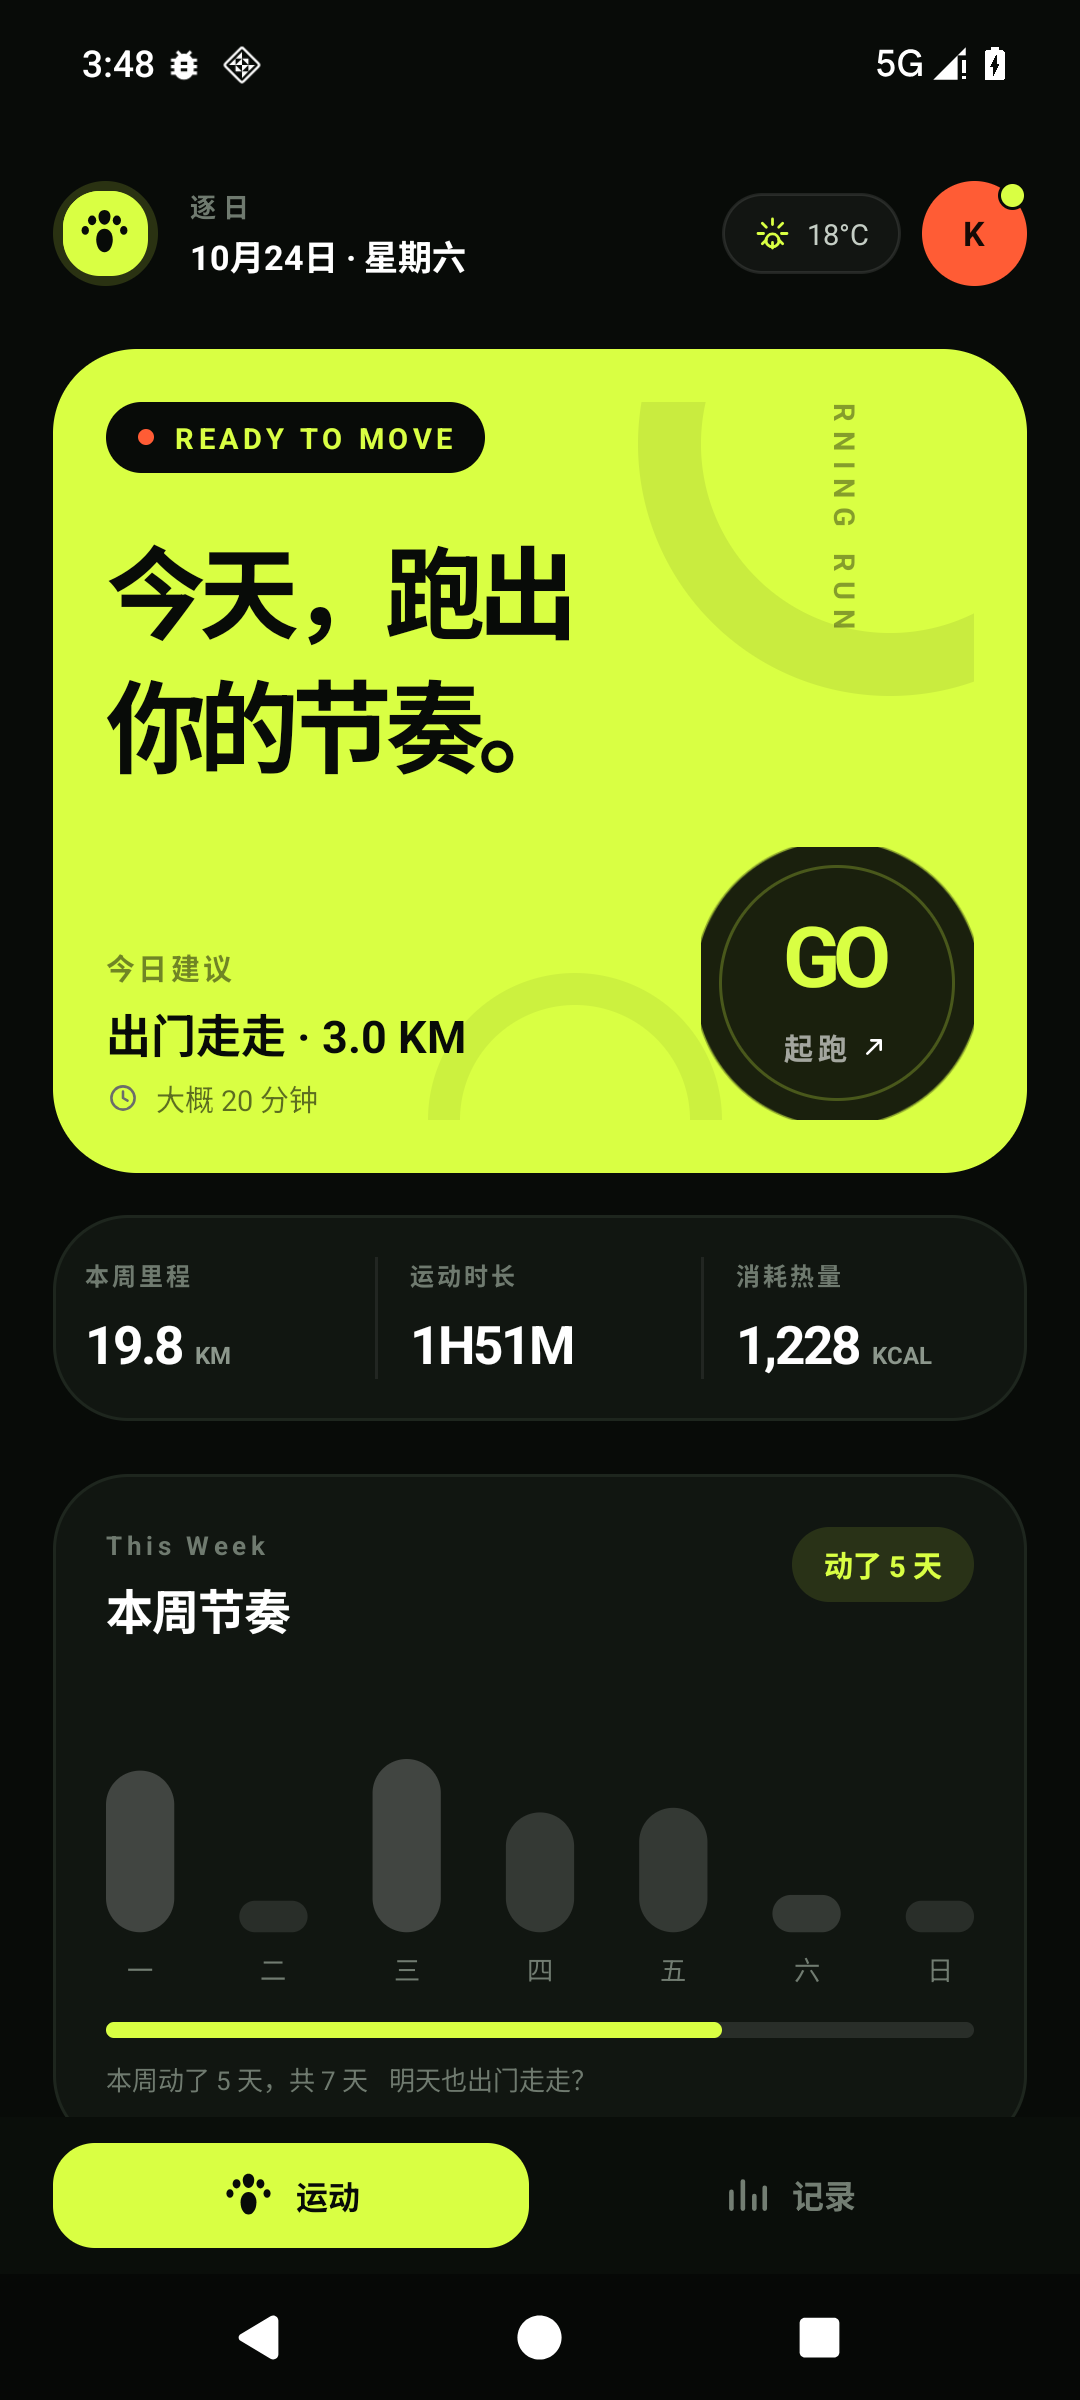
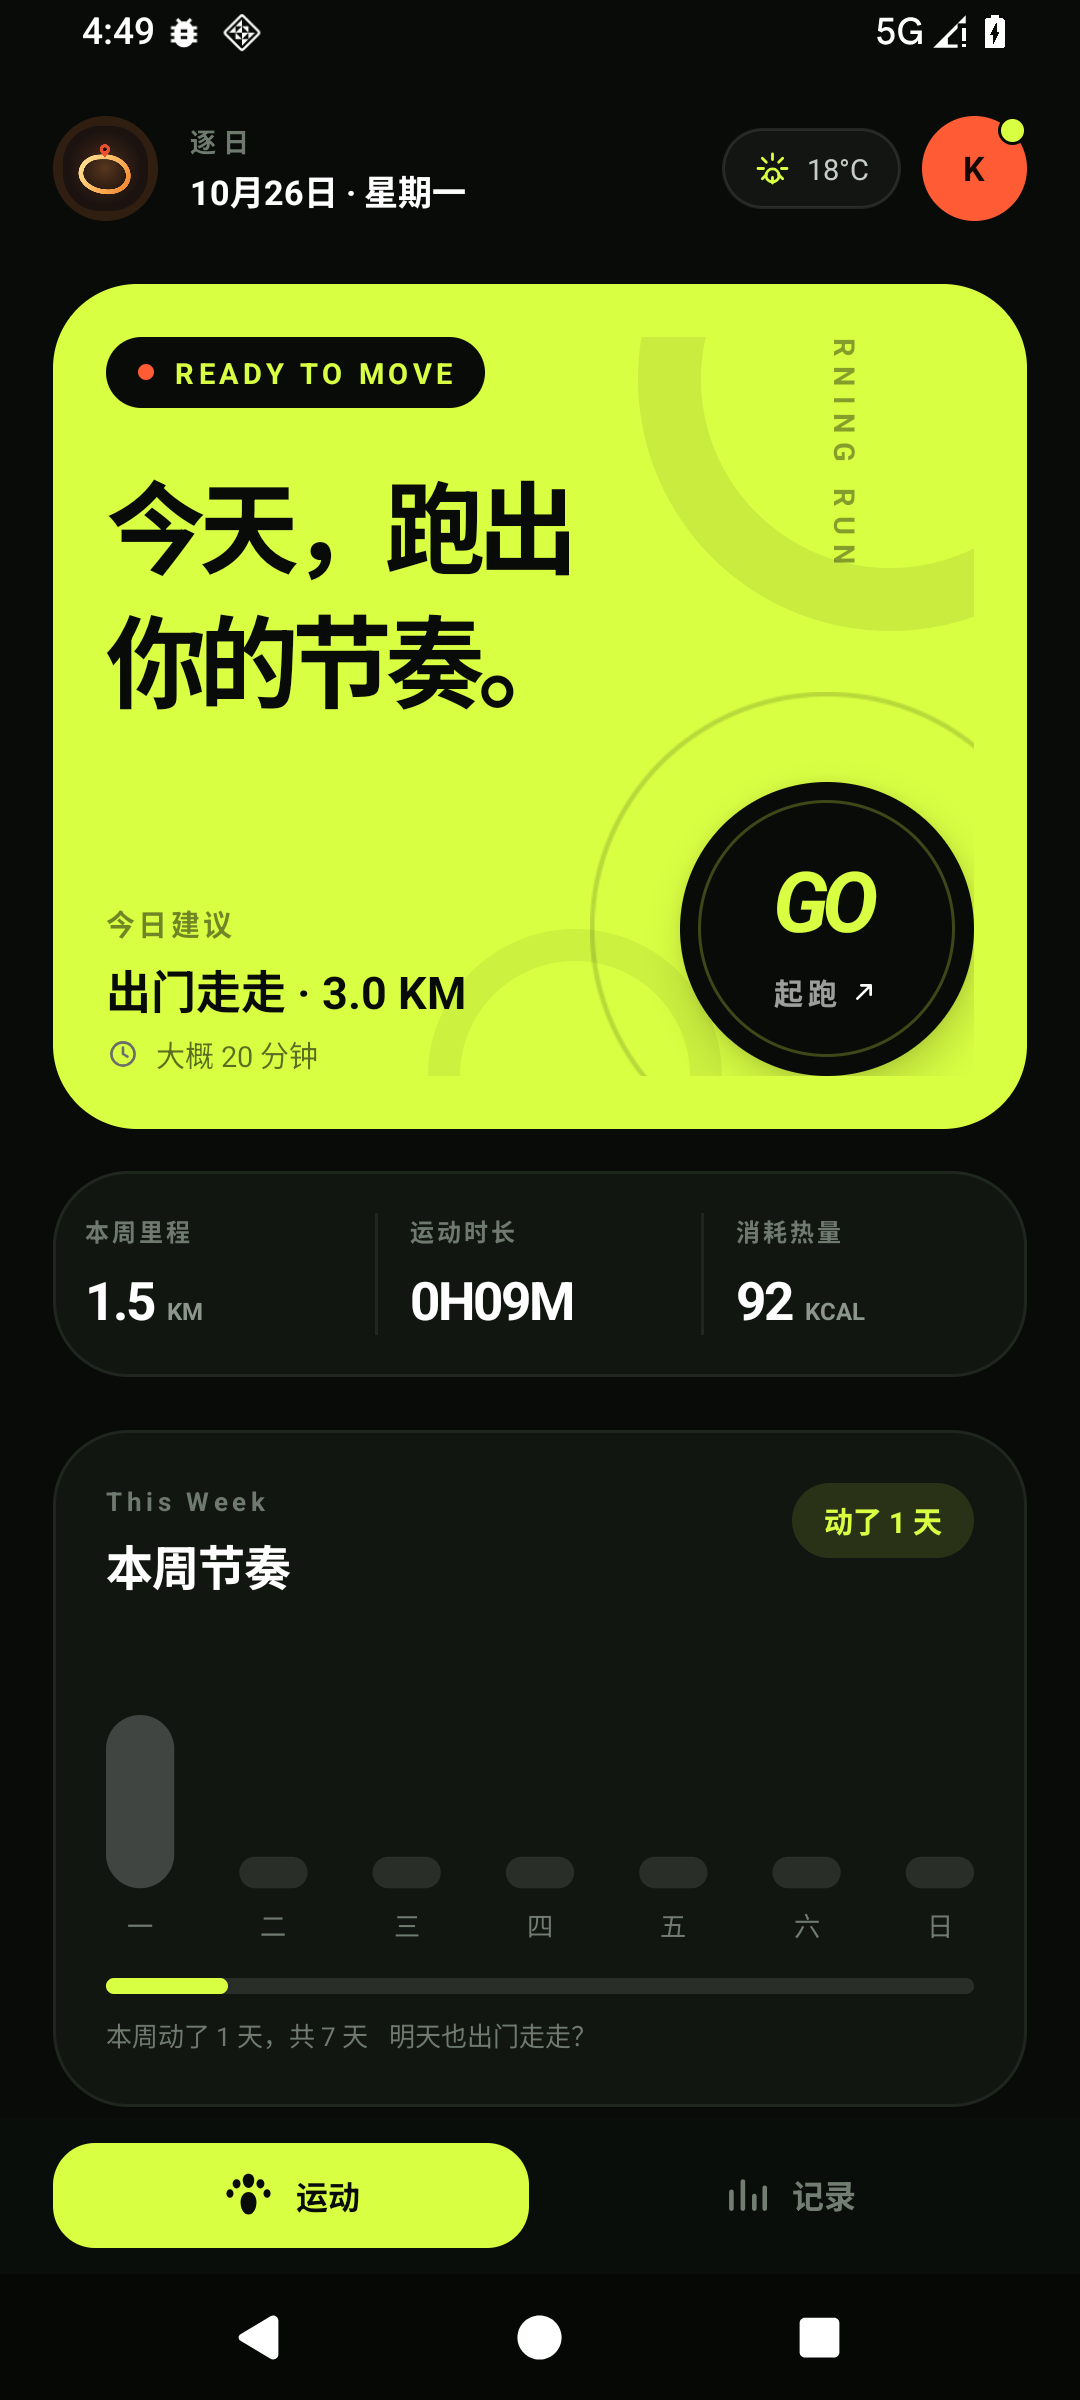
docs: 补充 7 项修复的验收记录与截图

diff --git a/docs/验收报告.md b/docs/验收报告.md
@@ -728,6 +728,69 @@ docs: 补充产品理念文档与 M8 验收结果
 
 ---
 
+## 修复轮 · 首页与跑步体验 7 项修复（分支 `fix/home-live-ux`）
+
+**执行日期**：2026-10-26　**状态**：✅ local 变体模拟器全流程通过，⏳ amap 变体待真机，⏳ 待用户验收
+
+> 用户提出 7 项问题；其中**问题 2（主题配色换暖色）按用户指示本轮不做**，其余 6 项一功能一提交。
+
+### 验收项核对
+
+| # | 用户提出的问题 | 处理 | 结果与证据 |
+|---|---|---|---|
+| 1 | 首页 GO 图标涟漪是黑边，按原型重建 | `drawable/bg_go_ping.xml` 原是**实心深色圆盘**（`<solid @color/bg_base/>`），这才是「黑边」根因；改为透明底 + 1dp `ink_40` 描边环，按钮本体圆盘拆到新的 `drawable/bg_go_disc.xml`。动画由「来回呼吸」改为**单向扩散淡出**：`ValueAnimator 0→1`、2400ms、INFINITE 且不再 REVERSE、`PathInterpolator(0f,0f,0.2f,1f)`（= Tailwind `animate-ping` 的 cubic-bezier）、`scale=1+p` / `alpha=1-p`。尺寸对齐原型 `activity.html:57-64`：按钮 104dp→112dp、内圈 90dp→98dp（`inset-[7px]`）、GO 文字加斜体、`elevation=10dp` | 涟漪被 hero 卡裁掉与原型 `overflow-hidden` 一致；连拍 7 帧见 `tools/shots/ripple-01…07.png`（不入库），按钮实测 294×294px = 112dp@440dpi |
+| 2 | 主题配色仍未换成黄橙白暖色 | **本轮不做**（用户 2026-10-26 指示）。仓库现状：品牌色已局部演进（`ic_logo_sunward.png`、`bg_logo_sunward`、`sunward_ink #1C1310`、`sunward_halo_16`），界面其余部分仍是荧光绿 `#D9FF43` | 未改动 |
+| 3 | 点起跑后要有 3-2-1 静息倒计时，GO 出现 1 秒后才开始计时 | `activity_live_run.xml` 末尾新增全屏 `@id/countdownOverlay`（`scrim_dark`、clickable 吞触摸、默认 gone）内含 120sp `@id/tvCountdown` + 12sp `@id/tvCountdownHint`（新字符串 `live_countdown_hint`「准备起跑」）；`LiveRunActivity` 用 `lifecycleScope` 走 3→2→1（每个 1s：淡入 160ms + 停留 540ms + 淡出 300ms）→ GO，**GO 满 1000ms 才 `startForegroundService(ACTION_START)`**，同时遮罩 250ms 淡出。恢复路径与调试切换不倒计时 | logcat 实测：`倒计时：3`@16:38:15.820 → `2`@16.852 → `1`@17.869 → `GO`@18.875 → `启动计时：simulated=true`@19.887，即 GO 之后 **+1.012s** 才开始计时；截图 `tools/shots/cd-01-3…cd-04-GO.png` |
+| 4 | 点 GO 后立即向高德请求底图；跑步中缩放到道路级；定位标带方向 | ① 首页点 GO 先 `provideMapLayer(this).prewarm()`（合规状态 + SDK 类加载），实时页 `onCreate` 第一件事就 `attach()`，底图请求不等转场动画。② 倒计时期间用新增的 `LocationTracker.lastKnownLocation()` + `locationFlow()` **预热定位**把镜头挪到脚下（`RunTracker.onPoint` 只接受 RUNNING 状态的点，预热点不会污染记录）。③ `TrackPoint` 新增可空 `bearingDeg`：真实点取 `Location.bearing`（`hasBearing()`），模拟轨迹按环线切线用 `GeoMath.bearingDegrees` 算；缺失时用新增的 `map/HeadingProvider`（`TYPE_ROTATION_VECTOR` + `GeoMath.smoothBearing` EMA，只在实时页可见期间注册）兜底。④ `MapLayer` 接口重构：删 `centerOnWgs84`，新增 `prewarm()` / `updateRunnerPosition(lat,lon,bearingDeg,accuracyM)` / `fitTrack(points)` / `setGesturesEnabled(enabled)` / `setTrack(points, endpoints)`。⑤ `AmapLayer` 改用自定义 `LocationSource` 喂 GCJ-02 点给 my-location 图层 + `MyLocationStyle(LOCATION_TYPE_LOCATION_ROTATE)`，图标是代码绘制的品牌色定位标（新增 `map/AmapMarkers.kt`，起终点也换成圆点，不用 SDK 水滴图钉）；首次定位 `newLatLngZoom(…, 17.5f)` 后由 my-location 跟随，`setTrack` 不再每帧移动镜头、已存在的 polyline 走 `setPoints` 复用 | 65 个单测全绿（含新增方位角用例）；`assembleAmapDebug` 通过。**高德 3D SDK 10.0.600 的 `LocationSource` 方法名是 `activate/deactivate`**，写成 `onActivate/onDeactivate` 会编译失败。地图实景只能真机验证（x86_64 模拟器装不了 amap 变体） |
+| 5 | 所有提示框都换成与项目风格一致的自定义卡片 | 新增 `ui/widget/SunwardDialog.kt` + `layout/dialog_sunward.xml` + `themes.xml` 的 `Theme.RunClub.Dialog` / `Animation.RunClub.Dialog`，视觉完全对齐实时页已有的 `endModal`（`bg_modal_sheet` 30dp 圆角、48dp 方形图标位、24sp 标题、11sp 正文、`bg_pill_dark` + `bg_pill_lime` 双胶囊）。替换全部 3 处系统 `AlertDialog`：首页隐私卡、首页恢复卡、记录页删除卡；新增字符串 `common_cancel`「取消」。Builder 支持图标换色（`iconOnLime`）、单按钮时自动去掉 6dp 间距、宿主 `ON_DESTROY` 自动 dismiss 防 window leak | 模拟器实测两张卡：**恢复卡**标题「检测到未完成的跑步」、正文含中断时间/距离/用时；点「恢复」后 `LiveRunActivity` 从 00:00:13 继续走（**没有重新倒计时**、`countdownOverlay` vis=G），点「丢弃」后 `shared_prefs/run_in_progress.xml` 变 `<map />`；**删除卡**删除后列表少一条、月统计同步重算为「本月动过 1 天 / 累计 1.5 KM」。截图 `07-restore-dialog.png`、`08-delete-dialog.png`、`10-restore-discard.png`。隐私卡只在 amap 变体出现（local 的 `PrivacyGate.isAgreed` 恒 true），模拟器验证不到 |
+| 6 | 运动结束后轨迹图只有轨迹，要带地图底图 | `activity_result.xml` 路线卡内按序新增 `CityMapView @id/resultCityMap`（手绘底图）+ `FrameLayout @id/resultMapHost`（amap 注入 MapView），卡片加 `clipToOutline` 保住 18dp 圆角；`ResultActivity` 自建 `mapLayer`，`setGesturesEnabled(false)`（禁手势，避免和页面滚动抢事件）、`setTrack(track, endpoints = true)`、`fitTrack(track)` 把整条路线取景进 220dp 卡片。真实底图可用时**隐藏**叠加层与手绘底图（叠加层按包围盒归一化，和真实经纬度不同源，同开会看到两条错位轨迹），并补齐 `onResume/onPause/onSaveInstanceState/onDestroy` 四个转发 | 模拟器（local）实测：`resultCityMap` / `resultMapHost` / `trackResult` 均 vis=V、`tvNoTrack` vis=G，截图 `04-result.png`；amap 真实底图待真机 |
+| 7 | 首页与记录页切换要平滑，滑动窗口切换 | 保留两页（不做 ViewPager2 重构）：新增 `res/values/integers.xml`（`nav_anim_duration_ms`=280）+ 4 个 anim（`slide_in_right`/`slide_out_left`/`slide_in_left`/`slide_out_right`，decelerate，**刻意不加 alpha** —— 窗口背后是黑的，淡出会闪黑）+ `ui/NavTransition.kt`（`forward`/`backward`，用 `overridePendingTransition` 而非 API 34 的 `overrideActivityTransition`，minSdk 26 全覆盖）+ `ui/SwipeBackHelper.kt`（左边缘 48dp 起手、手指跟随平移、页面下垫 `bg_outer` scrim、横向位移需 > 竖向 1.5 倍才抢事件、松手超过屏宽 25% 就 `finish()` 且**保留当前位移**让系统动画接续、否则 180ms 回弹；抢事件前会向子 View 补发 `ACTION_CANCEL`，否则列表以为手指还在它身上）。记录页接 `onBackPressedDispatcher`，`tabSport` 返回也走同一套动画；首页三个入口与成绩页「查看记录」统一走 `NavTransition.forward` | 模拟器实测：首页→记录页 ✓、记录页左边缘右滑（`input swipe 20 1000 800 1000`）→ 回首页 ✓、`tabSport` → 回首页 ✓、成绩页→记录页→右滑→回成绩页 ✓ |
+
+### 测试
+
+- `.\gradlew.bat testLocalDebugUnitTest`：**65 个用例全绿**（原 59 个；新增 `GeoMathTest` 方位角 5 个：正北/正东/正南/正西、归一化到 0~360、`smoothBearing` 跨 0° 走最短弧、稳定输入不漂移；新增 `SimulatedTrackTest` 1 个：模拟点带环线切线方位角）
+- `.\gradlew.bat assembleLocalDebug` 与 `assembleAmapDebug` 均 BUILD SUCCESSFUL
+- 模拟器（AVD `runclub36`，Android 16，1080×2400，local 变体）走通：冷启动 → 倒计时 → 跑步中（通知 `0.23 KM · 00:01:25 · 5'46"`）→ 暂停（标题转「已暂停」且 4s 内通知文本冻结）→ 继续 → 结束确认卡 → 成绩页（logcat `跑步记录已保存 id=3`）→ 记录页 → 右滑返回 → 首页；另跑通强杀恢复的「恢复」与「丢弃」两条路径
+- 验证手段说明：实时页与首页有无限循环动画，`uiautomator dump` 会报 `could not get idle state`，改用 `dumpsys activity top`（注意它打印的 `l,t-r,b` 是**相对父容器**的，要按缩进累加才是可点击的绝对坐标）；弹窗是独立 window，`dumpsys activity top` 看不到，要用 `uiautomator dump`
+- 截图存 `tools/shots/`（本机目录，不入库）
+
+### 本轮发现的既有缺陷（未修，等用户决定）
+
+| # | 缺陷 | 现场 |
+|---|---|---|
+| 1 | **恢复后的记录 `startTimeMs=0`**：`RunSession.restore()` 只设 `simulated`，不设 `startWallClockMs`；进程被杀后重开并恢复的记录，`persist()` 写入 `startTimeMs = 0` → 记录页显示「1月1日 00:00」，且「按开始时间归属周期」的报告口径会把它算到 1970 年 | `session/RunSession.kt:119-125`（`start()` 在 `:94` 才设 `startWallClockMs`）。修法：restore 里补 `startWallClockMs = System.currentTimeMillis() - elapsedMs`。模拟器已复现（记录 id=3，已用删除卡删掉） |
+| 2 | **`pm clear` 后用 adb 模拟入口会崩**：`ensureRunning()` 的权限判断是 `!tracker.hasPermission() && !wantSimulated`，模拟模式跳过权限检查，但 `location` 类型前台服务不论真假轨迹都要求定位权限 → `SecurityException: Starting FGS with type location … requires … ACCESS_FINE_LOCATION` | `ui/LiveRunActivity.kt` `ensureRunning()` ← `service/RunForegroundService.kt:105` `promoteToForeground`。真实用户走权限弹窗不会触发，只影响 adb 调试；临时绕过 `adb shell pm grant com.runclub.android android.permission.ACCESS_FINE_LOCATION` |
+| 3 | 字符串 `gps_disabled` / `perm_denied` / `restore_discarded` 从未被引用；定位服务未开启时 `locationFlow()` 直接 close，界面没有任何提示 | `res/values/strings.xml` |
+| 4 | `Text.Label` / `Text.WeeklyLabel` / `Text.WeeklyUnit` 仍是 9sp，`Text.Eyebrow` / `Text.WeeklyFooter` 10sp，与 AGENTS.md「全站字号下限 11sp」不一致（M8 遗留） | `res/values/themes.xml` |
+
+### 已知未验证（需真机 amap 变体）
+
+- 高德真实底图加载与瓦片缓存、道路级（17.5f）跟随、朝向定位标旋转、成绩页 `fitTrack` 取景效果
+- 首页隐私说明卡（local 变体不弹）
+- 涟漪与倒计时的**视觉观感**只做了截图存档，未做像素级比对；配色未动（问题 2）
+
+### 用户验收
+
+- 验收人：
+- 验收日期：
+- 结论：⏳ 待确认
+- 备注：
+
+### 本轮提交记录
+
+```
+fix: 首页 GO 涟漪改为单向扩散淡出
+feat: 统一提示卡片替换系统弹窗
+feat: 地图预热跟随跑者并按朝向显示定位标
+feat: 起跑前 3-2-1 倒计时后才开始计时
+feat: 成绩页路线图叠加真实地图底图
+feat: 首页与记录页滑动切页并支持右滑返回
+chore: 起跑倒计时补日志便于对齐计时起点
+docs: 补充 7 项修复的验收记录与截图
+```
+
+---
+
 ## 附：里程碑完成度
 
 | 里程碑 | 内容 | 状态 |

diff --git a/README.md b/README.md
@@ -48,13 +48,14 @@
 
 | 能力 | 你可以做什么 |
 |---|---|
-| **轨迹采集** | GPS 轨迹采集，前台服务保活，锁屏继续记录，中途可暂停。 |
+| **轨迹采集** | GPS 轨迹采集，前台服务保活，锁屏继续记录，中途可暂停。点起跑后先走 3-2-1 倒计时，`GO` 出现一秒后才开始计时。 |
 | **距离计算** | 距离用增量 EMA 平滑后累加，过滤瞬移与漂移点。 |
-| **地图渲染** | 轨迹存 WGS-84，渲染时转 GCJ-02 再交给高德；`local` 变体用手绘底图。 |
+| **地图渲染** | 轨迹存 WGS-84，渲染时转 GCJ-02 再交给高德；跑步中镜头跟到街道级并随跑者移动，定位标按 GPS 方位角转向（没有方位角时用罗盘兜底）；成绩页的路线图叠在真实底图上。`local` 变体用手绘底图。 |
 | **本地存储** | SQLite 存记录与轨迹点，删除记录后汇总同步减少。 |
 | **周 / 月 / 年报告** | 里程柱 + 快慢折线双轴图、运动构成、观察文案，主数字是动过的天数。 |
-| **历史与成绩** | 记录按天归档，可筛选、可展开；成绩页看路线图、每公里用时、消耗。 |
+| **历史与成绩** | 记录按天归档，可筛选、可展开；成绩页看路线图、每公里用时、消耗。首页与记录页之间滑动切页，记录页支持左边缘右滑返回。 |
 | **中断恢复** | 过程被强杀后进入 App 可恢复未完成的跑步。 |
+| **提示卡片** | 隐私说明、中断恢复、删除确认都是自绘卡片（`SunwardDialog`），和实时页的结束确认同一套视觉，不用系统弹窗。 |
 
 不做：排行榜、社交动态、配速目标、断签提醒。
 
@@ -68,6 +69,8 @@
 | 跑步中：轨迹、距离、时长、当前位置 | 报告：周 / 月 / 年，主数字是动过的天数 |
 | <img src="docs/screenshots/61-zhuri-record.png" alt="历史" width="240"> | <img src="docs/screenshots/65-zhuri-result.png" alt="成绩" width="240"> |
 | 历史：按天归档，可筛选、可展开 | 成绩：路线图、每公里用时、消耗 |
+| <img src="docs/screenshots/66-zhuri-countdown.png" alt="起跑倒计时" width="240"> | <img src="docs/screenshots/67-zhuri-card.png" alt="提示卡片" width="240"> |
+| 起跑前 3-2-1 倒计时，`GO` 满一秒才开始计时 | 自绘提示卡片：中断恢复 / 隐私说明 / 删除确认 |
 
 ## 工作原理
 
@@ -106,7 +109,7 @@ $env:GRADLE_USER_HOME  = 'D:\Sunward\tools\gradle-home'
 cd android
 .\gradlew.bat assembleLocalDebug     # 不含高德 SDK，可在 x86_64 模拟器安装
 .\gradlew.bat assembleAmapDebug      # 含高德底图，装真机
-.\gradlew.bat testLocalDebugUnitTest # 59 个单元测试
+.\gradlew.bat testLocalDebugUnitTest # 65 个单元测试
 ```
 
 ### 3. 模拟轨迹先看效果
@@ -116,6 +119,13 @@ adb shell am start -n com.runclub.android/.ui.HomeActivity --ez sim true
 ```
 
 模拟轨迹会走一条 2.4 km 的环线，产生一条带「模拟」标记的记录。
+
+> 点 GO 后先走 3-2-1 倒计时，`GO` 出现满一秒才开始计时，自动化脚本要多等约 4 秒。
+>
+> 全新安装或 `adb shell pm clear` 之后，先执行一次
+> `adb shell pm grant com.runclub.android android.permission.ACCESS_FINE_LOCATION`：
+> 模拟轨迹同样跑在 `location` 类型的前台服务里，系统要求启动该服务时已持有定位权限，
+> 否则服务起不来（界面上点 GO 走的是权限申请流程，不受影响）。
 
 ### 两个变体
 
